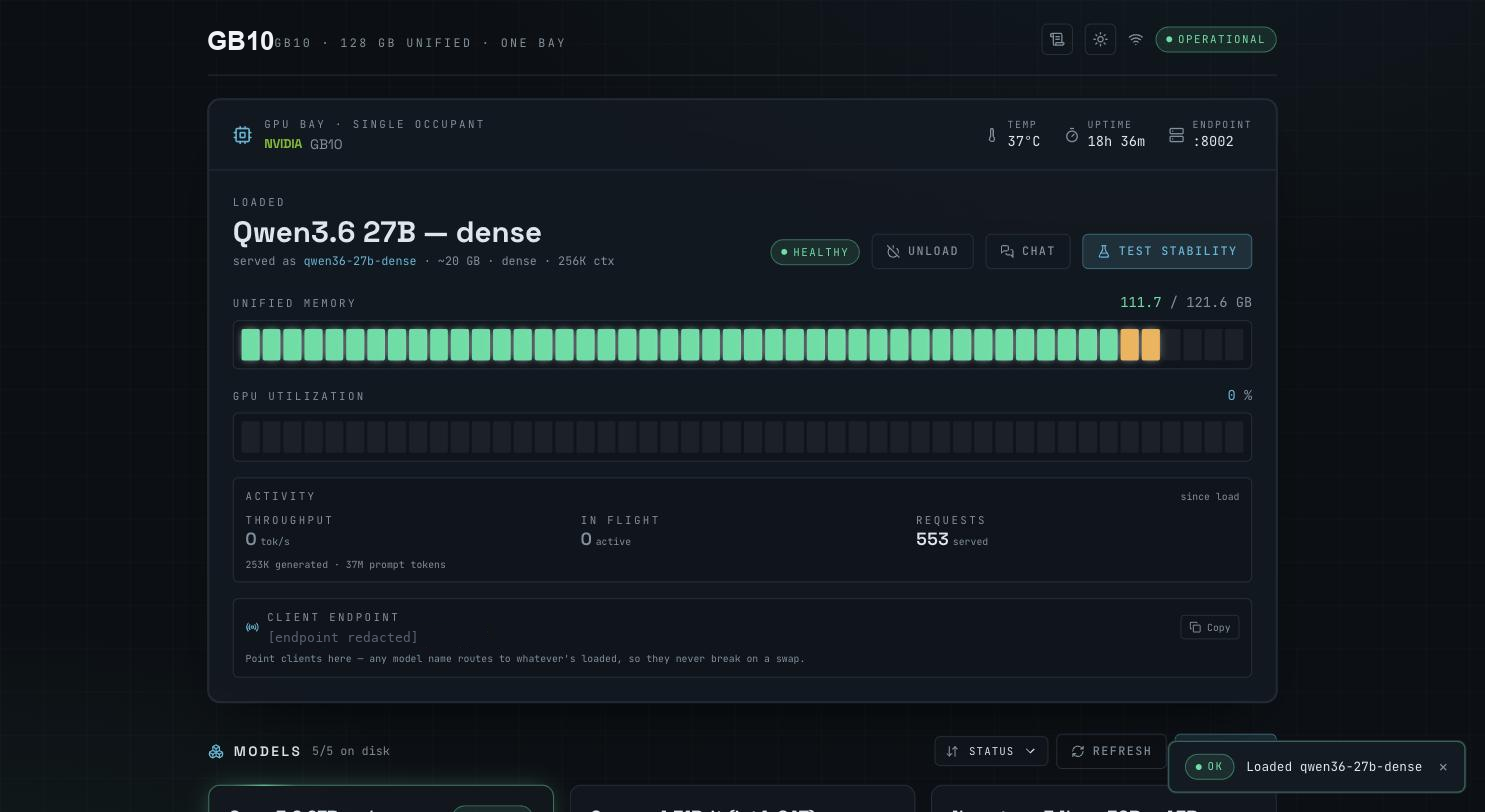
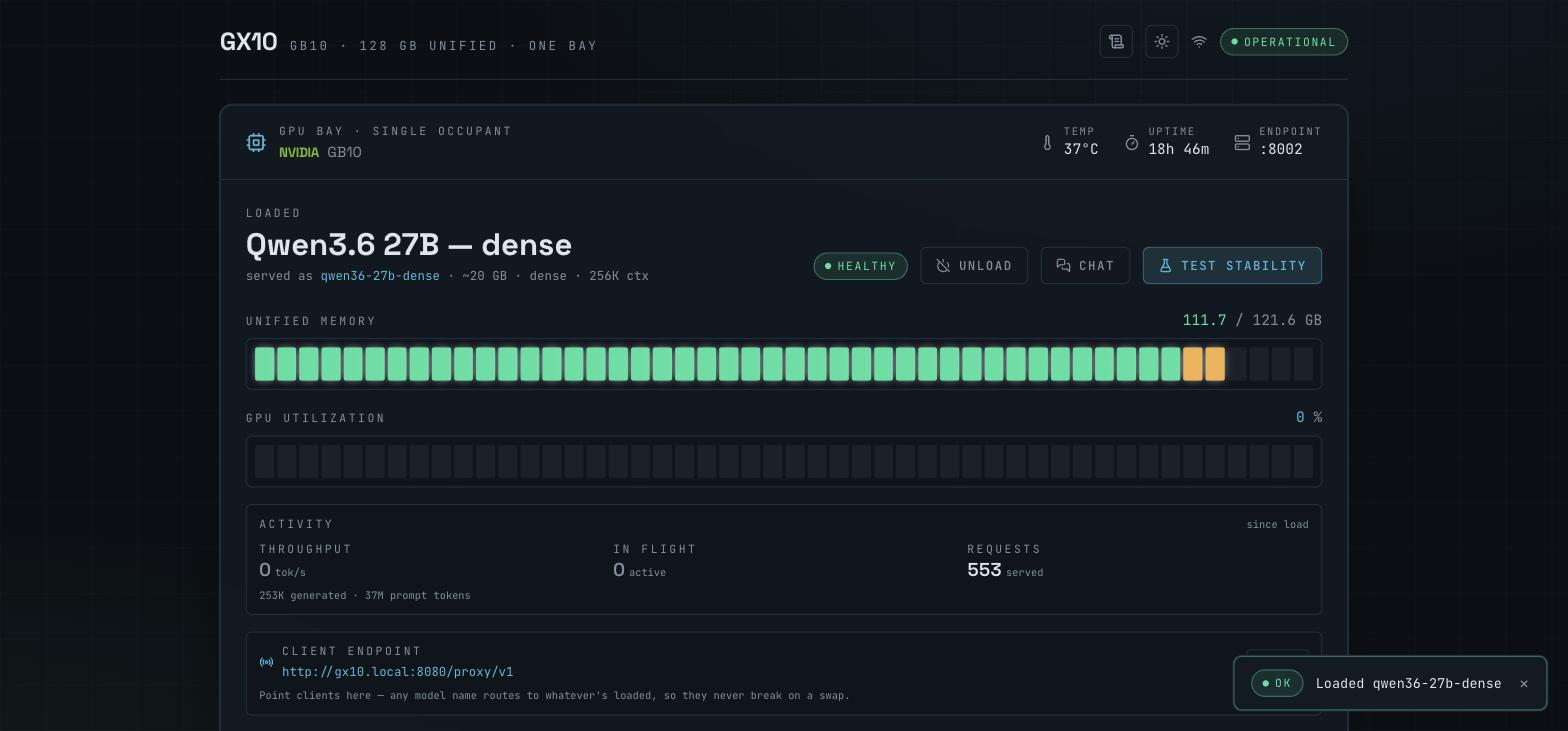
Add more dashboard screenshots (models, UPS, disk/updates, chat)
Replaced the header screenshot with a fresh unedited capture, and added a
screenshots gallery to swap-ui/README.md covering the models grid, UPS
telemetry, disk/updates/danger-zone panel, and the chat panel.

diff --git a/swap-ui/README.md b/swap-ui/README.md
@@ -11,6 +11,18 @@ into a reboot-only state), starts the target with its correct per-model recipe, 
 health. Every model is served on the **same
 port `:8002`**, so clients never change their endpoint.
 
+## Screenshots
+
+| GPU bay | Models |
+|---|---|
+| ![Loaded model, unified memory, GPU utilization, and activity](../assets/dashboard.png) | ![Model registry cards with load/edit/remove actions](../assets/models.png) |
+
+| UPS | Disk, updates & danger zone |
+|---|---|
+| ![UPS battery/load/runtime telemetry](../assets/ups.png) | ![Disk usage, apt updates, and the reboot control](../assets/disk-updates.png) |
+
+![Chat panel talking to the loaded model](../assets/chat.png)
+
 ## Layout
 
 ```
